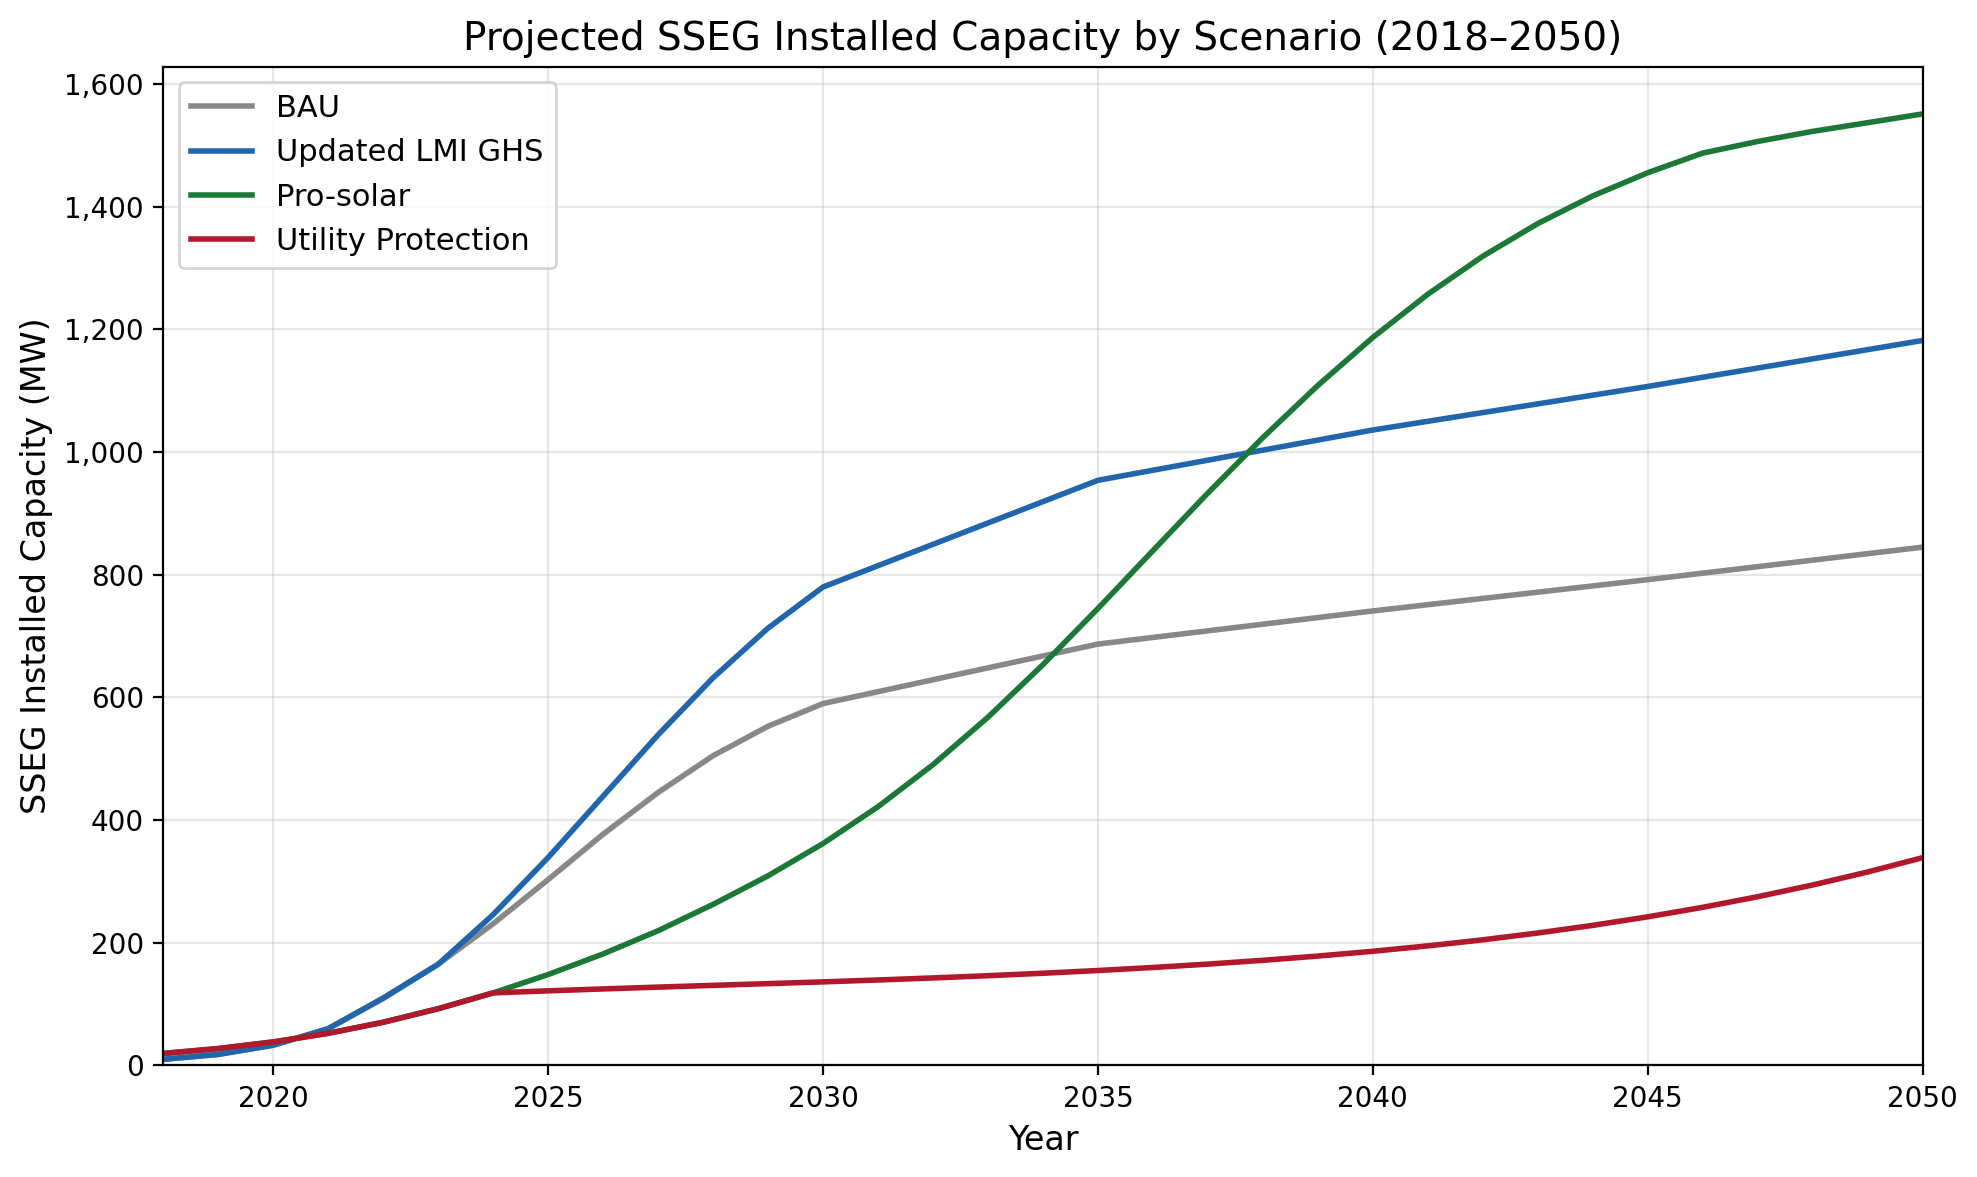
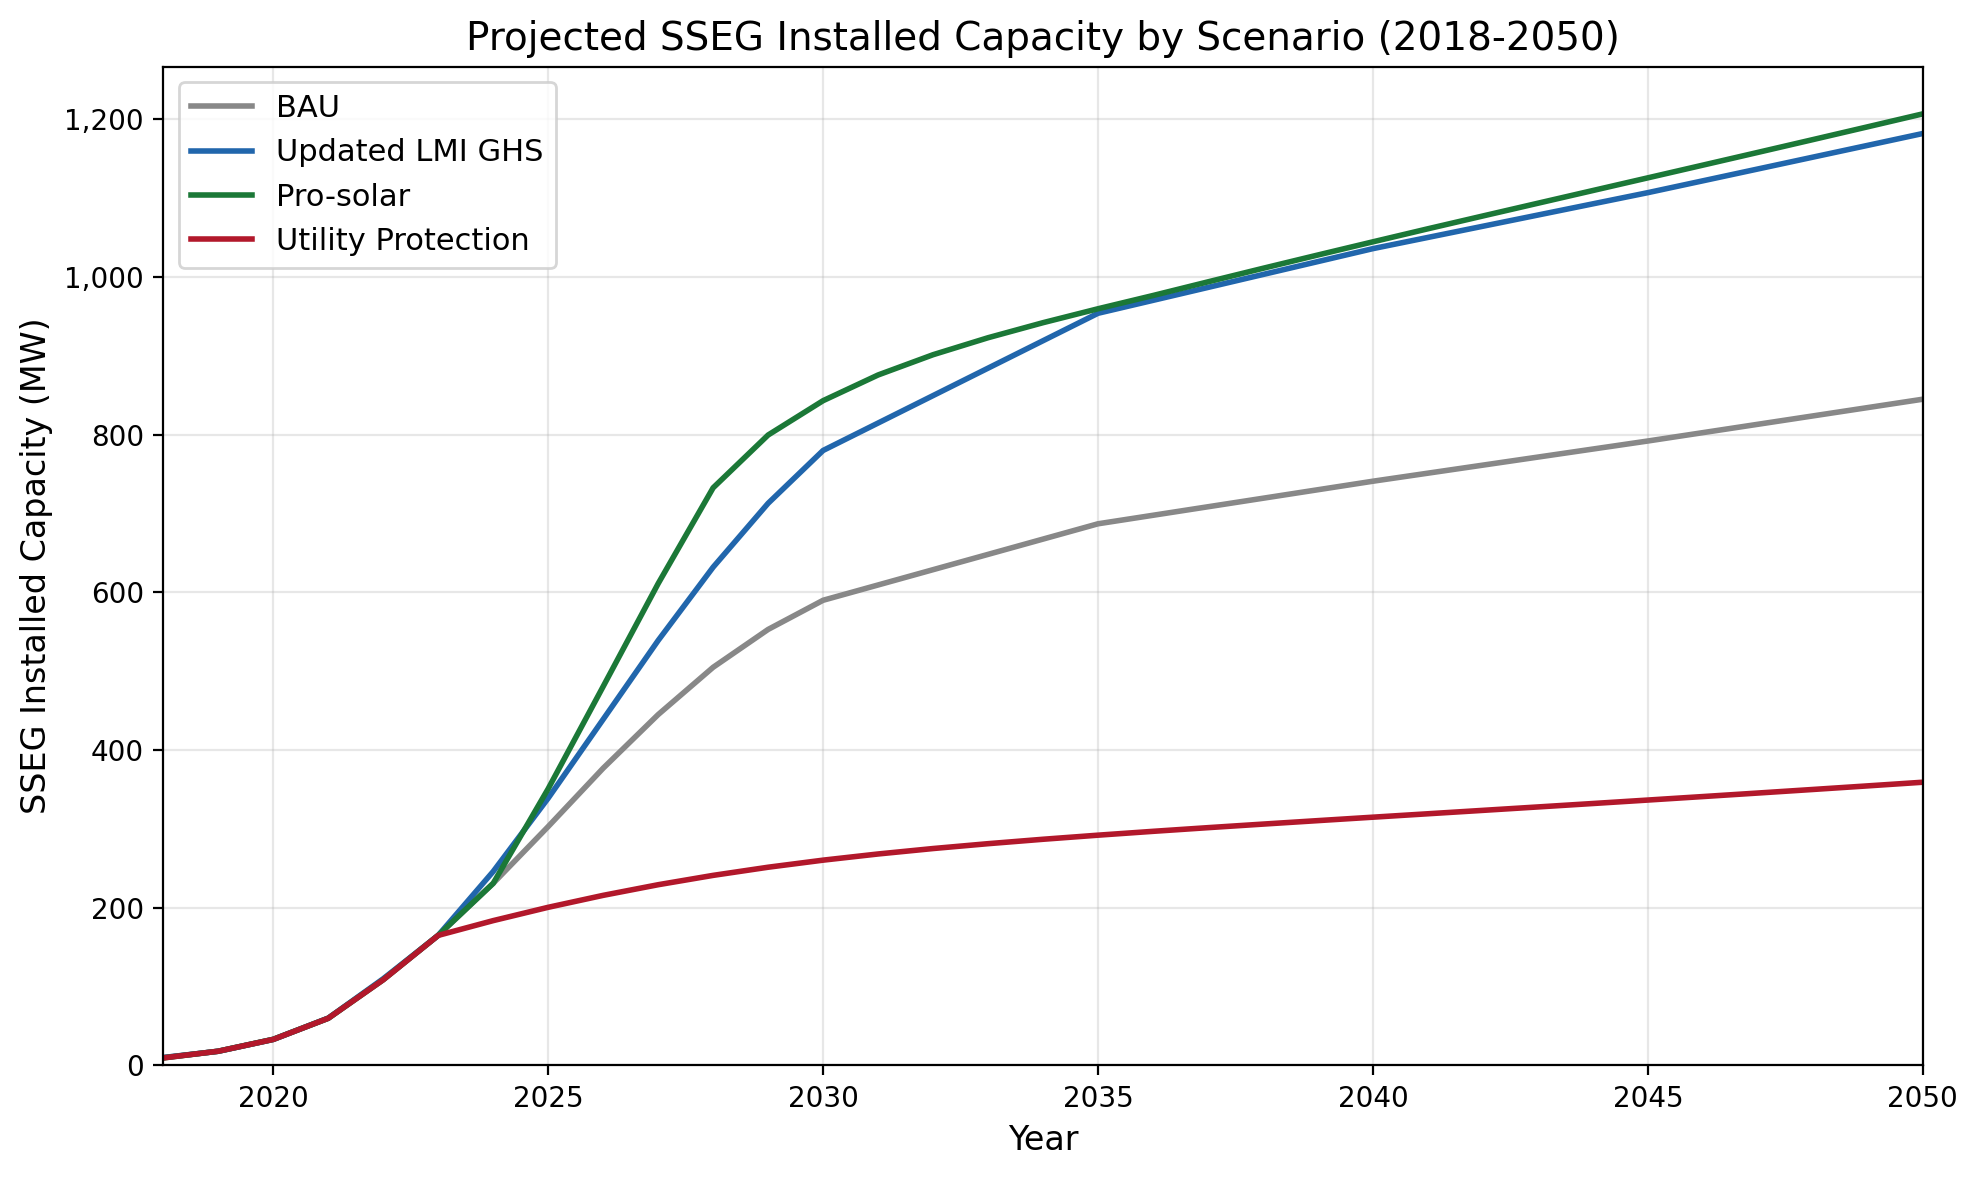
Update SSEG capacity data with corrected Pro-solar and Utility Protection values
Pro-solar and UP now use Updated BAU Area baseline (2018-2023 aligned with BAU/LMI).
Pro-solar supply from user's corrected Interp (2050: 1207 MW).
UP supply from corrected Interp with dampened p≈0 (2050: 359 MW).

https://claude.ai/code/session_0128PWdug5WTnjnjqd7eDwo8

diff --git a/s3-scenario/scenario_comparison_figure.py b/s3-scenario/scenario_comparison_figure.py
@@ -43,22 +43,22 @@ SSEG_CAPACITY = {
         2030: 780, 2035: 954, 2040: 1036, 2045: 1107, 2050: 1182
     },
     'Pro-solar': {
-        2018: 19.567, 2019: 27.524, 2020: 38.341, 2021: 52.437, 2022: 70.407,
-        2023: 92.510, 2024: 118.287, 2025: 148.191, 2026: 181.837, 2027: 219.626,
-        2028: 262.603, 2029: 309.182, 2030: 361.788, 2031: 421.808, 2032: 490.308,
-        2033: 567.733, 2034: 653.354, 2035: 744.964, 2036: 839.220, 2037: 933.151,
-        2038: 1023.608, 2039: 1108.596, 2040: 1186.831, 2041: 1257.304,
-        2042: 1319.278, 2043: 1372.550, 2044: 1417.593, 2045: 1455.453,
-        2046: 1487.463, 2047: 1506.441, 2048: 1522.879, 2049: 1537.071, 2050: 1551.358
+        2018: 9.549, 2019: 18.073, 2020: 33.162, 2021: 59.787, 2022: 108.707,
+        2023: 165.050, 2024: 230.948, 2025: 350.945, 2026: 480.678, 2027: 611.136,
+        2028: 732.659, 2029: 799.597, 2030: 843.153, 2031: 875.751, 2032: 901.449,
+        2033: 922.988, 2034: 942.076, 2035: 959.728, 2036: 976.529, 2037: 993.858,
+        2038: 1011.036, 2039: 1027.936, 2040: 1044.631, 2041: 1061.176,
+        2042: 1077.423, 2043: 1093.577, 2044: 1109.688, 2045: 1125.784,
+        2046: 1141.893, 2047: 1158.040, 2048: 1174.248, 2049: 1190.536, 2050: 1206.923
     },
     'Utility Protection': {
-        2018: 19.567, 2019: 27.524, 2020: 38.341, 2021: 52.437, 2022: 70.407,
-        2023: 92.510, 2024: 118.290, 2025: 121.631, 2026: 124.754, 2027: 127.710,
-        2028: 130.567, 2029: 133.394, 2030: 136.255, 2031: 139.336, 2032: 142.677,
-        2033: 146.325, 2034: 150.335, 2035: 154.770, 2036: 159.701, 2037: 165.210,
-        2038: 171.385, 2039: 178.325, 2040: 186.133, 2041: 194.923, 2042: 204.809,
-        2043: 215.914, 2044: 228.362, 2045: 242.280, 2046: 257.801, 2047: 275.060,
-        2048: 294.198, 2049: 315.363, 2050: 338.712
+        2018: 9.55, 2019: 18.06, 2020: 33.02, 2021: 59.83, 2022: 108.64,
+        2023: 164.95, 2024: 183.689, 2025: 200.576, 2026: 215.733, 2027: 229.219,
+        2028: 241.075, 2029: 251.406, 2030: 260.383, 2031: 268.212, 2032: 275.109,
+        2033: 281.273, 2034: 286.874, 2035: 292.057, 2036: 296.934, 2037: 301.594,
+        2038: 306.105, 2039: 310.520, 2040: 314.878, 2041: 319.207, 2042: 323.530,
+        2043: 327.863, 2044: 332.219, 2045: 336.607, 2046: 341.033, 2047: 345.503,
+        2048: 350.022, 2049: 354.592, 2050: 359.216
     },
 }
 
